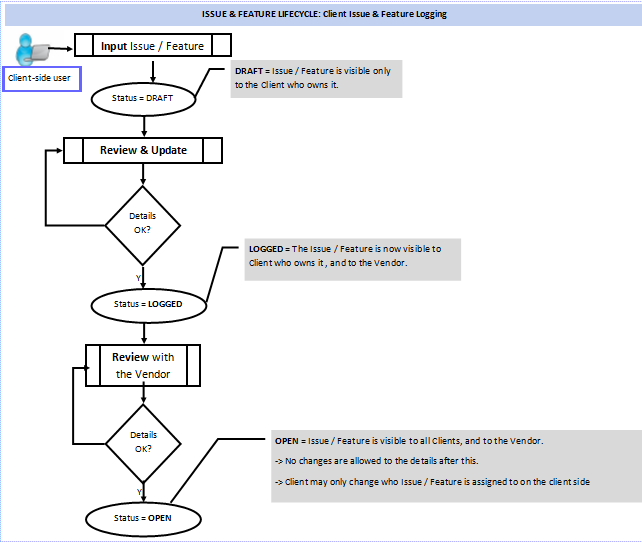
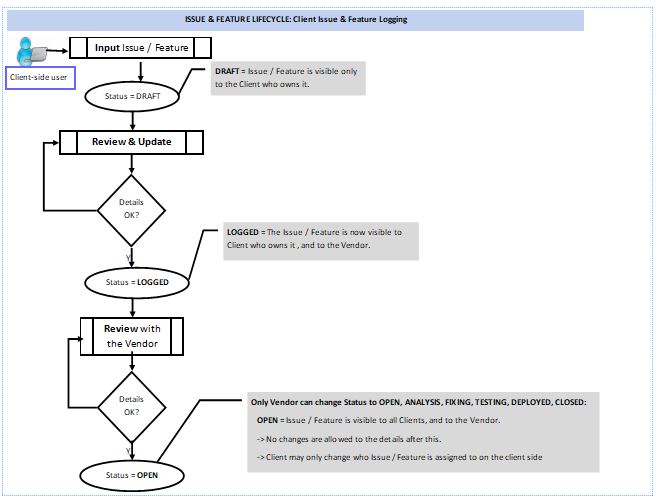
updates to user stories in readme

Changed region(s): [[0.0, 0.0, 1.0, 1.0]]

diff --git a/README.md b/README.md
@@ -10,7 +10,7 @@
 
 The purpose of the [Issue Tracker](https://kmcd-issue-tracker.herokuapp.com/issue_tracker/apphome/) is to allow clients to log the issues that they are experiencing with the _KMcD Online Accounting System_, as well as request new features. The Issue Tracker will provide a common area where all Clients can log their issues and request features. They will be able to see each others' issues and features, comment on them, and upvote them if they have the same issue, or want the same feature.
 
-While bugs will be fixed for free, upvoting new features will cost a certain amount of money depending on the complexity of the requested feature (this will be decided on per feature by the Vendor).
+While bugs will be fixed for free, upvoting new features will cost a certain amount of money depending on the complexity of the requested feature (this will be decided upon per feature by the Vendor).
 
 The Issue Tracker will be used by both the vendor (_KMcD Accounting Solutions_) and clients to monitor and manage the progress of issues & features.
 
@@ -37,7 +37,14 @@ I designed the screens so that they wouldn't vary too much from one device to an
 
 ## **2.2 Logic Flows**
 
-I used Microsoft Publisher to create logic flows for the Issue Tracker and user setup, for Vendor-side and Client-side processing, and workflows for the Issues & Features - these can be seen [here on github](https://github.com/KittyMcDonagh/kmcd-issue-tracking-project/tree/master/Design/system-diagrams)
+I used _Microsoft Publisher_ to create logic flows for:
+- The Issue Tracker 
+- User setup
+- Vendor-side processing
+- Client-side processing
+- Workflows for the Issues & Features
+
+I have included these diagrams in this README document, and they can also be seen [here on github](https://github.com/KittyMcDonagh/kmcd-issue-tracking-project/tree/master/Design/system-diagrams)
 
 
 ### **2.2.1 Issue Tracker High Level Overview**
@@ -69,28 +76,29 @@ I used Microsoft Publisher to create logic flows for the Issue Tracker and user 
 
 |No. |Who I am                 |What I want to do                                                                                    | Why I want to do it
 |----|-------------------------|-----------------------------------------------------------------------------------------------------|------------------------------------------------------------------------------------------------------------------------|
-|1.  |The Vendor               |I want to see all the issues/features clients are raising against the KMcD Online Accounting System. |I want to monitor them and keep track of them.                                                                       |
+|1.  |The Vendor               |I want to see all the issues/features clients are raising against the _KMcD Online Accounting System_. |I want to monitor them and keep track of them.                                                                       |
 |2.  |The Vendor               |I want to be able to see all the details of issues / features.                                       |I want have a good understanding of the problems encountered, and the features required.                              |
 |3.  |The Vendor               |I want to be able to assign issues/features to different users.                                      |So that certain users have a number of issues / features that they monitor for certain clients.                          |
-|4.  |The Vendor               |I want to be able to change the priority and status of an issue.                                     |So that clients can see the priority given to their issues, and how they are progressing as their status changes.      |
-|5   |The Vendor               |I want to be able to change the price and status of a feature, as the issue progresses.              |So that clients can see the priority given to their issues, and how they are progressing as their status changes.      |
-|6.  |The Vendor               |I want to be able to input comments on issues / features.                                            |So as to give relevant information in relation to the issue/feature, or respond to comments input by the client. |
-|7.  |Vendor                   |I want to be able select issues assigned to me or all issues, filter by priority, status and client. |It will help me focus on certain types of issues as required.                                                            |
-|8.  |The Vendor               |I want to be able filter features by those assigned to me or all, by status, and client.             |It will help me focus on certain types or categories of features as required.                                            |         
-|9.  |The Vendor               |I want to be able order features by amount paid per feature.                                         |It will help me see which features are of most concern to my clients.                                                  |
-|10. |The Vendor               |I want to have an issues report by client, showing me the issues they have input and flagged.        |I will be able to see which issues are of most concern to my clients.                                                    |
-|11. |The Vendor               |I want to have a features report by client, showing me the features they have input and paid for.    |I will be able to see which features are of most concern to my clients, and which clients are paying the most.           |
-|12. |A Client                 |I want to be able to input and edit the details of issues and features.                              |I want to log issues / features once in one place, where I monitor them and where the vendor has sight of them.         |
-|13. |A Client                 |I want to see all the issues/features raised by us and by other clients.                             |I want to monitor our own issues and see if other clients are having the same issues.                                    |
-|14. |A Client                 |I want to be able to see all the details of issues / features.                                       |I want to see the details of our own issues / features and see how they compare with those of other clients.         |
-|15. |A Client                 |I want to be able to assign issues/features to different users.                                      |So that certain users have a number of issues / features that they monitor.                                              |
-|16. |A Client                 |I want to be able to change the status of an issue.                                                  |I want to be able to change the status from its initial value so that the vendor can view it.                           |
-|17. |A Client                 |I want to be able to input comments on issues / features.                                            |So as to give relevant information in relation to the issue/feature, or respond to comments input by others.     |
-|18. |A Client                 |I want to be able select issues assigned to me or all issues, filter by priority, status and client. |It will help me focus on certain types of issues as required.                                                            |
-|19. |A Client                 |I want to be able filter features by those assigned to me or all, by status, and client.             |It will help me focus on certain types or categories of features as required.                                            |         
-|20. |A Client                 |I want to be able order features by amount paid per feature.                                         |It will help me see which features the vendor should be giving priority to.                                            |
-|21. |A Client                 |I want to have an issues report, showing me the issues we have input and flagged.                    |I will be able to see the issues that are of concern to us.                                                              |
-|22. |A Client                 |I want to have a features report, showing me the features we have input and paid for.                |I will be able to see the features that are of concern to us.                                                            |
+|4.  |The Vendor               |I want to be able to change the priority and status of an issue.                                     |So that clients can see the priority given to their issues, and how they are progressing as their status changes.          |
+|5.  |The Vendor               |I want to be able to change the status of a feature, as the feature progresses.                      |So that clients can see how their features are progressing.                                                                |
+|6.  |The Vendor               |I want to be able to change the price a feature.                                                     |The price will reflect the complexity of the feature.                                                                     |
+|7.  |The Vendor               |I want to be able to input comments on issues / features.                                            |So as to give relevant information in relation to the issue/feature, or respond to comments input by the client. |
+|8.  |Vendor                   |I want to be able select issues assigned to me or all issues, filter by priority, status and client. |It will help me focus on certain types of issues, or issues of a particular client, as required.                         |
+|9.  |The Vendor               |I want to be able filter features by those assigned to me or all, by status, and client.             |It will help me focus on certain types or categories of features, or features of a particular client, as required.       |         
+|10.  |The Vendor               |I want to be able order features by amount paid per feature.                                         |It will help me see which features are of most concern to my clients.                                                  |
+|11. |The Vendor               |I want to have an issues report by client, showing me the issues they have input and flagged.        |I will be able to see which issues are of most concern to my clients.                                                    |
+|12. |The Vendor               |I want to have a features report by client, showing me the features they have input and paid for.    |I will be able to see which features are of most concern to my clients, and which clients are paying the most.           |
+|13. |A Client                 |I want to be able to input and edit the details of issues and features.                              |I want to log issues / features once in one place, where I can monitor them and where the vendor has sight of them.       |
+|14. |A Client                 |I want to see all the issues/features raised by us and by other clients.                             |I want to monitor our own issues and see if other clients are having the same issues.                                    |
+|15. |A Client                 |I want to be able to see all the details of issues / features.                                       |I want to see the details of our own issues / features and see how they compare with those of other clients.         |
+|16. |A Client                 |I want to be able to assign issues/features to different users.                                      |So that certain users have a number of issues / features that they monitor.                                              |
+|17. |A Client                 |I want to be able to change the status of an issue.                                                  |I want to be able to change the status from its initial value so that the vendor can view it.                           |
+|18. |A Client                 |I want to be able to input comments on issues / features.                                            |So as to give relevant information in relation to the issue/feature, or respond to comments input by others.     |
+|19. |A Client                 |I want to be able to filter issues assigned to me or all issues, filter by priority, and status      |It will help me focus on certain types of issues as required.                                                            |
+|20. |A Client                 |I want to be able to filter features, by those assigned to me or all, and by status                  |It will help me focus on certain types or categories of features as required.                                            |         
+|21. |A Client                 |I want to be able order features by amount paid per feature.                                         |It will help me see which features the vendor should be giving priority to.                                            |
+|22. |A Client                 |I want to have an issues report, showing me the issues we have input and flagged.                    |I will be able to see the issues that are of concern to us.                                                              |
+|23. |A Client                 |I want to have a features report, showing me the features we have input and paid for.                |I will be able to see the features that are of concern to us.                                                            |
 
 
 ## **2.4 WEBSITE REQUIREMENTS**
@@ -578,17 +586,19 @@ The Features being paid for are added to the Order lines at Checkout.
 |AWS s3 Buckets               |aws.amazon.com                                                            |
 |Stripe Payments              |https://stripe.com/ie                                                     |
 
+
       
 
 
-|Features         |Website                                                                            |COMMENTS                                                                                                  |
-|-----------------|-----------------------------------------------------------------------------------|----------------------------------------------------------------------------------------------------------|
-| Color Scheme    |[Color Wheel](https://www.canva.com/colors/color-wheel/)                           |I used this websiteto choose the base colors for my website.                                              |                                                                    
-| Colors          |[w3schools](https://www.w3schools.com/colors/colors_picker.asp)                    |I used this website to get different shades of the base colors.                                          |
-| Web page layouts|[bootstrap](https://getbootstrap.com/)                                             |I used bootstraps container, row and column classes to create my page layouts and to make them responsive |         
-| Navigation bar  |[bootstrap](https://getbootstrap.com/)                                             |I used bootstraps nav bar classes to create my navigation bars, and burger menu.                     |         
-| Wireframes      |[Figma](https://www.figma.com/file/g5LWnVMBRVwuMGNSxHS7qb/Home-Page?node-id=71%3A1)|I used figma when designing my website. See screen shots in Design folder on github                      |
-|Django Pagination|https://django-el-pagination.readthedocs.io/en/latest/digg_pagination.html         |I used django pagination to create the paginate functionality on the Issues and Features Lists   
+|Features            |Website                                                                            |COMMENTS                                                                                                 |
+|--------------------|-----------------------------------------------------------------------------------|---------------------------------------------------------------------------------------------------- ----|
+| Color Scheme       |[Color Wheel](https://www.canva.com/colors/color-wheel/)                           |I used this websiteto choose the base colors for my website.                                              |                                                                    
+| Colors             |[w3schools](https://www.w3schools.com/colors/colors_picker.asp)                    |I used this website to get different shades of the base colors.                                          |
+| Web page layouts   |[bootstrap](https://getbootstrap.com/)                                             |I used bootstraps container, row and column classes to create my page layouts and to make them responsive |         
+| Navigation bar     |[bootstrap](https://getbootstrap.com/)                                             |I used bootstraps nav bar classes to create my navigation bars, and burger menu.                     |         
+| Wireframes         |[Figma](https://www.figma.com/file/g5LWnVMBRVwuMGNSxHS7qb/Home-Page?node-id=71%3A1)|I used figma when designing my website. See screen shots in Design folder on github                      |
+|Django Pagination   |https://django-el-pagination.readthedocs.io/en/latest/digg_pagination.html         |I used django pagination to create the paginate functionality on the Issues and Features Lists        |
+|Microsoft Publisher |https://www.microsoft.com/en-ie/default.aspx                                       | I used Publisher to create logic & workflow diagrams                                              |
 
 
 # **6. TESTING**
